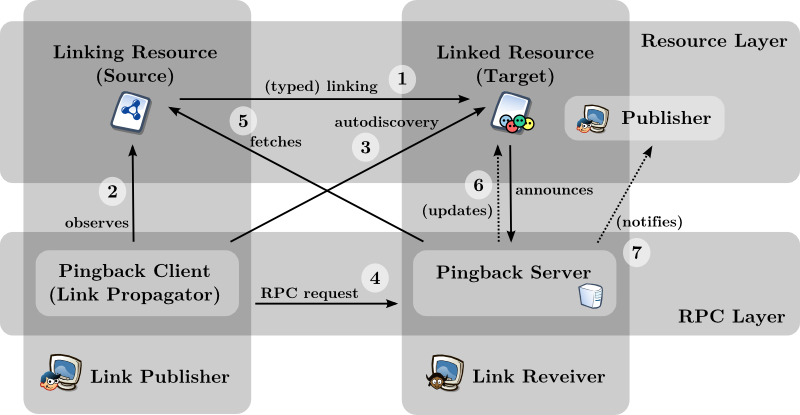
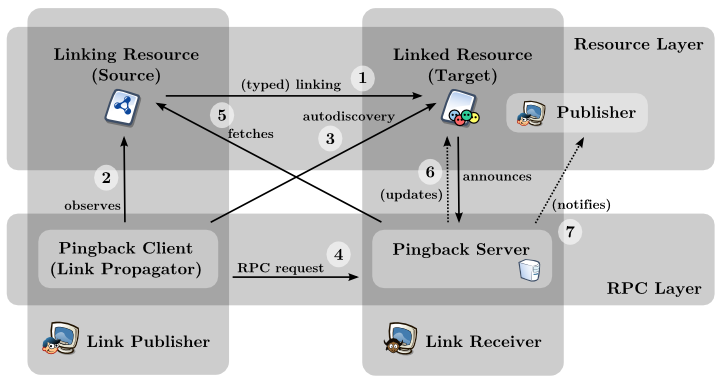
last todo: SemanticPingback slide split

diff --git a/2014-10-27-Defense/index.html b/2014-10-27-Defense/index.html
@@ -530,7 +530,28 @@
     <div class="step slide front" data-x="2600" data-y="1200" data-z="0">
         <h1>Semantic Pingback</h1>
         <figure>
-            <a href="img/SemanticPingback.svg"><img alt="Semantic Pingback" class="width80" src="img/SemanticPingback.svg"></a>
+            <a href="img/SemanticPingback.svg"><img alt="Semantic Pingback" class="width80" src="img/SemanticPingback.png"></a>
+            <figcaption>In: S.Tramp et al.: <a href="http://link.springer.com/chapter/10.1007%2F978-3-642-16438-5_10">Weaving a Social Data Web with Semantic Pingback</a>, Proceedings of the 17th International Knowledge Engineering and Knowledge Management Conference (EKAW 2010), Lisbon, Portugal</figcaption>
+        </figure>
+    </div>
+    <div class="step slide" data-x="2600" data-y="1200" data-z="0">
+        <h1>Semantic Pingback</h1>
+        <figure>
+            <a href="img/SemanticPingback.svg"><img alt="Semantic Pingback" class="width80" src="img/SemanticPingback-1.png"></a>
+            <figcaption>In: S.Tramp et al.: <a href="http://link.springer.com/chapter/10.1007%2F978-3-642-16438-5_10">Weaving a Social Data Web with Semantic Pingback</a>, Proceedings of the 17th International Knowledge Engineering and Knowledge Management Conference (EKAW 2010), Lisbon, Portugal</figcaption>
+        </figure>
+    </div>
+    <div class="step slide" data-x="2600" data-y="1200" data-z="0">
+        <h1>Semantic Pingback</h1>
+        <figure>
+            <a href="img/SemanticPingback.svg"><img alt="Semantic Pingback" class="width80" src="img/SemanticPingback-2.png"></a>
+            <figcaption>In: S.Tramp et al.: <a href="http://link.springer.com/chapter/10.1007%2F978-3-642-16438-5_10">Weaving a Social Data Web with Semantic Pingback</a>, Proceedings of the 17th International Knowledge Engineering and Knowledge Management Conference (EKAW 2010), Lisbon, Portugal</figcaption>
+        </figure>
+    </div>
+    <div class="step slide" data-x="2600" data-y="1200" data-z="0">
+        <h1>Semantic Pingback</h1>
+        <figure>
+            <a href="img/SemanticPingback.svg"><img alt="Semantic Pingback" class="width80" src="img/SemanticPingback.png"></a>
             <figcaption>In: S.Tramp et al.: <a href="http://link.springer.com/chapter/10.1007%2F978-3-642-16438-5_10">Weaving a Social Data Web with Semantic Pingback</a>, Proceedings of the 17th International Knowledge Engineering and Knowledge Management Conference (EKAW 2010), Lisbon, Portugal</figcaption>
         </figure>
     </div>

diff --git a/2014-10-27-Defense/todos.md b/2014-10-27-Defense/todos.md
@@ -45,10 +45,6 @@
 - Eval: Unique Triples
 - Eval Quantitative: Einleitung, In welchen Kontexten und auf welchen Maschinen
 
-# jörgs notes
-
-- Semantic Pingback: Rote Kästen über main steps packen
-
 # slides todos
 
 - check in 1280x1024
